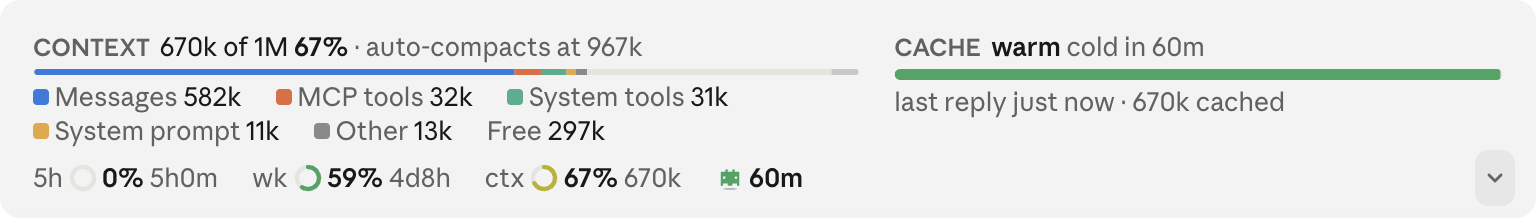
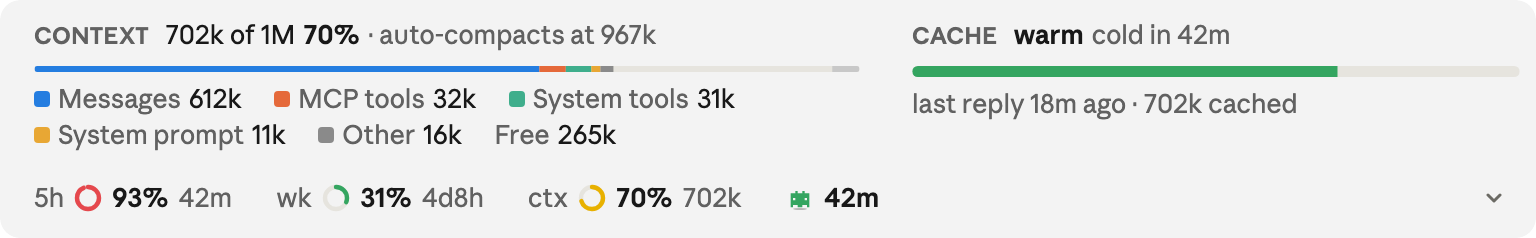
README images: one colour per figure; add /usage-band demo for screenshots

diff --git a/hooks/register.tsx b/hooks/register.tsx
@@ -31,6 +31,31 @@ let motion: Timer | undefined
 // Whether the card glides open (`on`) or appears at once (`off`, the default: the
 // band redraws in steps, so the glide stutters), set by /usage-band anim.
 let glide = false
+// Fixed sample figures for screenshots, set by /usage-band demo; never kept across reloads.
+let demo = false
+
+const MIN = 60_000
+const at = (now: number, ms: number) => new Date(now + ms).toISOString()
+// One of each colour: the 5-hour limit near its end (red), the week early (green), context at 70% (yellow), a warm cache.
+const DEMO = {
+  limits: (now: number): Limit[] => [
+    { kind: 'five_hour', percentUsed: 93, resetsAt: at(now, 42 * MIN) },
+    { kind: 'seven_day', percentUsed: 31, resetsAt: at(now, (4 * 24 + 8) * 60 * MIN) },
+  ],
+  context: { tokens: 702_000, window: 1_000_000, percent: 70 } as Context,
+  cache: (now: number): Cache => ({ lastAt: now - 18 * MIN, ttlMs: CACHE_TTL }),
+  breakdown: {
+    rows: [
+      { name: 'Messages', tokens: 612_000, color: 'msg' },
+      { name: 'MCP tools', tokens: 32_000, color: 'mcp' },
+      { name: 'System tools', tokens: 31_000, color: 'sys' },
+      { name: 'System prompt', tokens: 11_000, color: 'prompt' },
+      { name: 'Other', tokens: 16_000, color: 'grey' },
+    ],
+    free: 265_000,
+    compactAt: 967_000,
+  } as Breakdown,
+}
 
 const keepLimits = (list: readonly SessionRateLimit[]): Limit[] =>
   list.map(l => ({ kind: l.kind, percentUsed: l.percentUsed, resetsAt: l.resetsAt }))
@@ -102,6 +127,11 @@ export const register: Register = on => {
 
   on('command.run', { command: COMMAND }, async ($, e) => {
     const [what, value] = e.args.trim().split(/\s+/)
+    if (what === 'demo' && (value === 'on' || value === 'off')) {
+      demo = value === 'on'
+      await $.ui.invalidate('ui.render')
+      return { text: `Demo figures ${value}.` }
+    }
     if (what !== 'anim' || (value !== 'on' && value !== 'off')) {
       return { text: `Card animation is ${glide ? 'on' : 'off'}. Use /usage-band anim on or /usage-band anim off.` }
     }
@@ -150,12 +180,12 @@ export const register: Register = on => {
     const ui = $.ui.resolve(e)
     const { Box, Button, Text } = ui
     const now = await $.clock.now()
-    const ls = await read($, limits)
-    const ctx = await read($, context)
+    const ls = demo ? DEMO.limits(now) : await read($, limits)
+    const ctx = demo ? DEMO.context : await read($, context)
     if (ls.length === 0 && !ctx) return next(e)
 
     const figs = figuresOf(ls, ctx, now)
-    const c = await read($, cache)
+    const c = demo ? DEMO.cache(now) : await read($, cache)
     const w = warmthOf(c, now)
     const cacheText = w ? (w.warmth === 'cold' ? 'cold' : `${w.mins}m`) : ''
 
@@ -219,7 +249,7 @@ export const register: Register = on => {
 
     if (f.t <= 0) return row
 
-    const b = await read($, breakdown)
+    const b = demo ? DEMO.breakdown : await read($, breakdown)
     const window = ctx?.window ?? 0
     const ctxFig = figs[figs.length - 1]
     const ago = c ? (now - c.lastAt < 60_000 ? 'just now' : `${timeLeft(now, c.lastAt)} ago`) : ''

diff --git a/hooks/band.test.tsx b/hooks/band.test.tsx
@@ -172,6 +172,21 @@ describe('band', () => {
     await ui.unmount()
   })
 
+  test('/usage-band demo on shows one figure of each colour', async ($, on) => {
+    engine(on)
+    on('ui.invalidate', () => ({ value: undefined }))
+    await $.session.start({ cwd: '/', surface: 'desktop', isInteractive: true })
+    await $.command.run({ kind: 'plugin', name: 'usage-band', command: 'usage-band', args: 'demo on' } as never)
+
+    const ui = await $.ui.mount({ ...BAND, surface: 'desktop' })
+    expect((await ui.find({ type: 'Text', text: /93%/ }))?.text).toBe(' 93%')
+    expect((await ui.find({ type: 'Text', text: /31%/ }))?.text).toBe(' 31%')
+    expect((await ui.find({ type: 'Text', text: /70%/ }))?.text).toBe(' 70%')
+    expect((await ui.find({ type: 'Text', text: /42m/ }))?.text).toBe(' 42m')
+    await ui.unmount()
+    await $.command.run({ kind: 'plugin', name: 'usage-band', command: 'usage-band', args: 'demo off' } as never)
+  })
+
   test('terminal: the same facts as text', async ($, on) => {
     engine(on)
     await $.session.start({ cwd: '/', surface: 'terminal', isInteractive: true })
